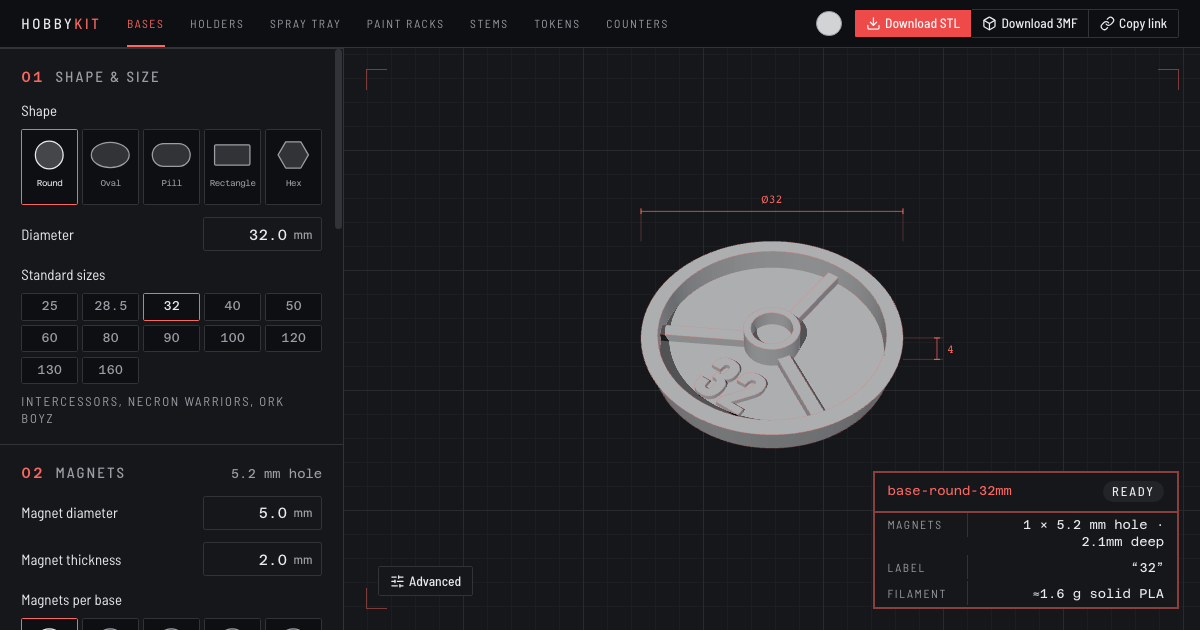
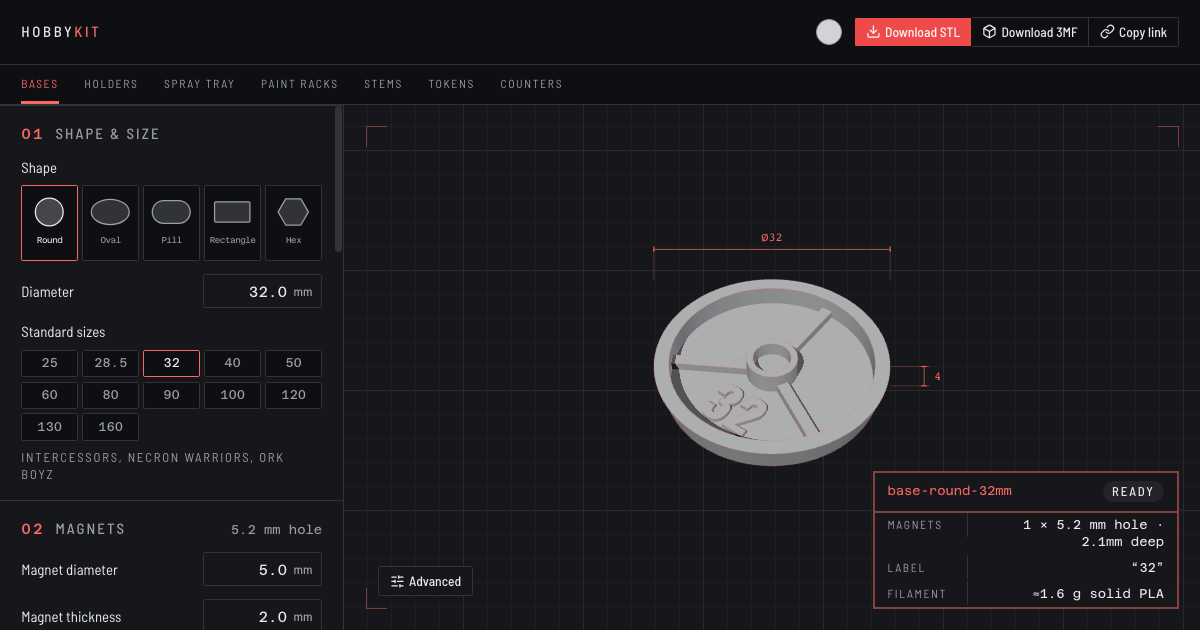
docs: add README screenshots and a GitHub social preview

diff --git a/scripts/socialCards.ts b/scripts/socialCards.ts
@@ -1,25 +1,80 @@
 /**
- * Screenshots every generator's default model into `public/og` as its 1200×630 link preview.
- * Run against a fresh build with `just social-cards` whenever the app's look changes.
+ * Screenshots every generator's default model into `public/og` as its 1200×630 link preview, and the README's
+ * screenshots and the repository's GitHub social preview into `docs/images`. Run against a fresh build with
+ * `just social-cards` whenever the app's look changes; the social preview is uploaded by hand in the repository settings.
  */
-import { chromium } from '@playwright/test'
+import { mkdtempSync, readFileSync } from 'node:fs'
+import { tmpdir } from 'node:os'
+import { join } from 'node:path'
+import { chromium, type Browser } from '@playwright/test'
 import { preview } from 'vite'
 import { PAGES } from '../src/lib/pages.ts'
 import { socialCardPath } from '../src/lib/seo.ts'
 
+/** The counter stays out of the README until its design no longer derives from the model it began as. */
+const README = [
+  { href: '/', path: 'docs/images/readme-bases.png' },
+  { href: '/paint-racks', path: 'docs/images/readme-paint-racks.png' },
+]
+
+/** Narrower than the README's, so the model sits inside the part of the frame the card shows. */
+const FRAMED = join(mkdtempSync(join(tmpdir(), 'hobbykit-')), 'app.png')
+
 const server = await preview({ preview: { port: 0, host: '127.0.0.1' } })
 const origin = server.resolvedUrls!.local[0].replace(/\/$/, '')
 const browser = await chromium.launch()
+
+async function capture(target: Browser, href: string, path: string, viewport: { width: number; height: number }, scale = 1) {
+  const tab = await target.newPage({ viewport, deviceScaleFactor: scale })
+  await tab.goto(`${origin}${href}`)
+  await tab.locator('[data-triangles]').waitFor()
+  // The shadow map and the first damped camera frames settle after the mesh lands.
+  await tab.waitForTimeout(1500)
+  await tab.screenshot({ path })
+  await tab.close()
+}
+
+const dataUri = (path: string, type: string) => `data:${type};base64,${readFileSync(path).toString('base64')}`
+const font = (name: string) => dataUri(`node_modules/@fontsource/${name}`, 'font/woff2')
+
+/** Laid out like the app's header: the wordmark's second half in the measuring red, and the app framed beside it. */
+async function githubPreview(target: Browser) {
+  const tab = await target.newPage({ viewport: { width: 1280, height: 640 } })
+  await tab.setContent(`<!doctype html>
+<style>
+  @font-face { font-family: Barlow; font-weight: 500; src: url(${font('barlow-semi-condensed/files/barlow-semi-condensed-latin-500-normal.woff2')}) }
+  @font-face { font-family: Barlow; font-weight: 600; src: url(${font('barlow-semi-condensed/files/barlow-semi-condensed-latin-600-normal.woff2')}) }
+  @font-face { font-family: Azeret; font-weight: 500; src: url(${font('azeret-mono/files/azeret-mono-latin-500-normal.woff2')}) }
+  body { margin: 0; width: 1280px; height: 640px; overflow: hidden; position: relative; font-family: Barlow;
+    background: oklch(0.17 0.006 270); color: oklch(0.94 0.006 270);
+    background-image: linear-gradient(oklch(0.24 0.008 270) 1px, transparent 1px), linear-gradient(90deg, oklch(0.24 0.008 270) 1px, transparent 1px);
+    background-size: 48px 48px }
+  .copy { position: absolute; left: 72px; top: 50%; transform: translateY(-50%); width: 500px }
+  .mark { display: flex; align-items: center; gap: 20px; font-weight: 500; font-size: 40px; letter-spacing: 0.18em }
+  .mark img { width: 64px; height: 64px }
+  .mark span { color: oklch(0.64 0.2 25) }
+  h1 { margin: 40px 0 28px; font-weight: 600; font-size: 84px; line-height: 0.95; text-transform: uppercase }
+  p { margin: 0; font-size: 27px; line-height: 1.35; color: oklch(0.7 0.01 270) }
+  .frame { position: absolute; left: 600px; top: 72px; width: 780px; border: 1px solid oklch(0.32 0.01 270);
+    border-radius: 18px; padding: 10px; background: oklch(0.13 0.006 270) }
+  .frame img { display: block; width: 100%; border-radius: 10px }
+</style>
+<div class="copy">
+  <div class="mark"><img src="${dataUri('public/favicon.svg', 'image/svg+xml')}" alt=""><div>HOBBY<span>KIT</span></div></div>
+  <h1>Size it.<br>Print it.</h1>
+  <p>Free, open source generator for printable bases, trays, holders and paint racks, sized exactly how you need them.</p>
+</div>
+<div class="frame"><img src="${dataUri(FRAMED, 'image/png')}" alt=""></div>`)
+  await tab.evaluate(() => document.fonts.ready)
+  await tab.screenshot({ path: 'docs/images/github-social-preview.png' })
+  await tab.close()
+}
+
 try {
-  for (const page of PAGES) {
-    const tab = await browser.newPage({ viewport: { width: 1200, height: 630 } })
-    await tab.goto(`${origin}${page.href}`)
-    await tab.locator('[data-triangles]').waitFor()
-    // The shadow map and the first damped camera frames settle after the mesh lands.
-    await tab.waitForTimeout(1500)
-    await tab.screenshot({ path: `public${socialCardPath(page)}` })
-    await tab.close()
-  }
+  for (const page of PAGES) await capture(browser, page.href, `public${socialCardPath(page)}`, { width: 1200, height: 630 })
+  for (const shot of README) await capture(browser, shot.href, shot.path, { width: 1440, height: 900 }, 2)
+  await capture(browser, '/', FRAMED, { width: 1100, height: 760 }, 2)
+  await githubPreview(browser)
 } finally {
   await browser.close()
   await server.close()

diff --git a/AGENTS.md b/AGENTS.md
@@ -10,7 +10,7 @@ This application is built from RAS recipes. `ras-recipes.json` records each reci
 - `just dev` — Vite on port 5173.
 - `just test` — Vitest over `src/**/*.test.ts`. Geometry tests run in Node against the same builder the browser uses, so they need no browser.
 - `just e2e` builds and runs Playwright; `just e2e-run` reuses the current `dist/`. Install the browser once with `just e2e-install`.
-- `just social-cards` — rebuilds and retakes every page's link preview image in `public/og`.
+- `just social-cards` — rebuilds and retakes every page's link preview image in `public/og`, the README screenshots and the GitHub social preview in `docs/images`. The social preview is uploaded by hand under the repository's Settings → Social preview.
 - `just makerworld-images [name...]` — rebuilds and renders MakerWorld listing images into `makerworld/images`, which git ignores: 4:3 and 3:4 covers, a grid of other configurations, and a plain render. Every configuration shown must be one the MakerWorld script can make, because MakerWorld treats a render the download cannot produce as misleading, and each listing still needs a photo of a real print.
 - `just printables` — writes the ready-to-print STLs and `.scad` for each Printables listing into the git-ignored `printables/files/<name>/`; the copy in `printables/listings` names every file, so change both together.
 - `just samples [round|oval|painting|rack|counter]` — writes preset base STLs, the default painting tray, the default paint rack, or the default dial counter's parts and inserts for inspection outside the browser.
@@ -107,5 +107,5 @@ This application is built from RAS recipes. `ras-recipes.json` records each reci
 
 Static assets only, described by `wrangler.jsonc`. Cloudflare builds the repo with `pnpm build` and serves `dist/`. There is no backend, no database and no secret — the generator, the exporters and the font all run in the browser. Manifold's WASM is the single-threaded build, so no cross-origin isolation headers are required.
 
-- **Every generator route is a prerendered file.** The `hobbykit:seo` plugin in `vite.config.ts` writes one HTML file per entry in `src/lib/pages.ts`, each with its own head, structured data and a readable summary inside `#root` that React replaces on mount, plus `404.html`, `robots.txt`, `sitemap.xml`, `llms.txt`, and a Markdown copy of each generator's guide from `docs/generators`, linked from its page as the `text/markdown` alternate. The README links those guides rather than repeating them, and a test holds every guide's heading to its page title. `wrangler.jsonc` serves `404.html` for anything else, so a new generator needs an entry in `PAGES` or its address returns 404. Each page's link preview is a 1200×630 screenshot of its default model in `public/og`; run `just social-cards` when the app's look or a default changes.
+- **Every generator route is a prerendered file.** The `hobbykit:seo` plugin in `vite.config.ts` writes one HTML file per entry in `src/lib/pages.ts`, each with its own head, structured data and a readable summary inside `#root` that React replaces on mount, plus `404.html`, `robots.txt`, `sitemap.xml`, `llms.txt`, and a Markdown copy of each generator's guide from `docs/generators`, linked from its page as the `text/markdown` alternate. The README links those guides rather than repeating them, and a test holds every guide's heading to its page title. `wrangler.jsonc` serves `404.html` for anything else, so a new generator needs an entry in `PAGES` or its address returns 404. Each page's link preview is a 1200×630 screenshot of its default model in `public/og`; run `just social-cards` when the app's look or a default changes, which also retakes the README screenshots. The README leaves the dial counter out until its design is changed.
 - `public/_headers` sets the security headers Cloudflare sends with every asset. There is no Content-Security-Policy: PostHog's ingest host comes from the build environment and its extensions load from its own asset hosts, so a policy cannot be checked locally and a wrong one silently drops analytics.

diff --git a/README.md b/README.md
@@ -10,6 +10,13 @@
 [![Build](https://img.shields.io/github/actions/workflow/status/richardsolomou/hobbykit.app/ci.yml?branch=main)](https://github.com/richardsolomou/hobbykit.app/actions/workflows/ci.yml) [![License](https://img.shields.io/github/license/richardsolomou/hobbykit.app)](LICENSE)
 </div>
 
+<div align="center">
+
+<img src="docs/images/readme-bases.png" width="49%" alt="The bases generator with a 32mm round base turned to show its magnet pocket, ribs and embossed size, beside the shape, standard size and magnet settings">
+<img src="docs/images/readme-paint-racks.png" width="49%" alt="The paint racks generator with a five by four rack of hex cells for pots and dropper bottles, beside the piece, cell and pocket settings">
+
+</div>
+
 HobbyKit makes support-free STL and 3MF files for tabletop miniature bases, matching flying stems, Gridfinity holders, low-profile spray trays, stepped paint racks, gaming tokens, and dial counters. Pick a standard footprint or enter an exact one, choose the magnets you have, and export a model ready for the slicer. A base's size is embossed inside, so a loose print still tells you what it is: a `28.5` base says `28.5`, not `29`. Type your own label instead, such as a unit name or squad number; text that cannot fit the base is reported rather than dropped, and the filename still names the size.
 
 Everything runs in the browser. Models are built locally and nothing is uploaded.
@@ -26,7 +33,7 @@ Built-in presets cover common Games Workshop, The Old World, Kings of War, and h
 
 1. **Choose the footprint** by picking its shape, then a standard size or exact dimensions.
 2. **Match your magnets** by setting their diameter, thickness, fit and depth clearances, and count.
-3. **Tune the print** with the edge profile, wall thickness, top thickness, and internal supports.
+3. **Tune the print** with the edge profile, wall thickness, top thickness, and internal supports. Height, top thickness, corner radius, label size, and supports follow the size until you set them, and **Advanced** shows the finer settings.
 4. **Check both faces** in the live 3D view, where dimensions, the export name, and the part's weight as solid PLA stay visible. Holders and spray trays show the total for every part. A slicer's walls and infill will use less filament than that.
 5. **Save an STL or 3MF** built at a 1µm chord tolerance for circular geometry.
 

diff --git a/CONTRIBUTING.md b/CONTRIBUTING.md
@@ -54,7 +54,7 @@ When a changeset reaches `main`, CI updates `package.json` and `CHANGELOG.md`, t
 - `src/lib` — browser orchestration for preview scheduling, one-shot export builds, downloads, and media queries, plus the generator page list that `vite.config.ts` prerenders into per-page HTML, `robots.txt`, `sitemap.xml`, and `llms.txt`.
 - `docs/generators` — one guide per generator, linked from the README and served beside its page as Markdown.
 - `e2e` — Playwright coverage against the production build.
-- `scripts` — Node entry points for inspecting real exports and for `just social-cards`, which retakes the link preview images in `public/og`.
+- `scripts` — Node entry points for inspecting real exports and for `just social-cards`, which retakes the link preview images in `public/og` and the README and GitHub preview images in `docs/images`.
 - `makerworld` — OpenSCAD ports of the generators for MakerWorld's Parametric Model Maker, one file each, with their comparison cases in `scripts/makerworld`. Run `just makerworld check <name>` after changing a generator's geometry; it needs `brew install --cask openscad@snapshot`.
 
 ## Geometry model
